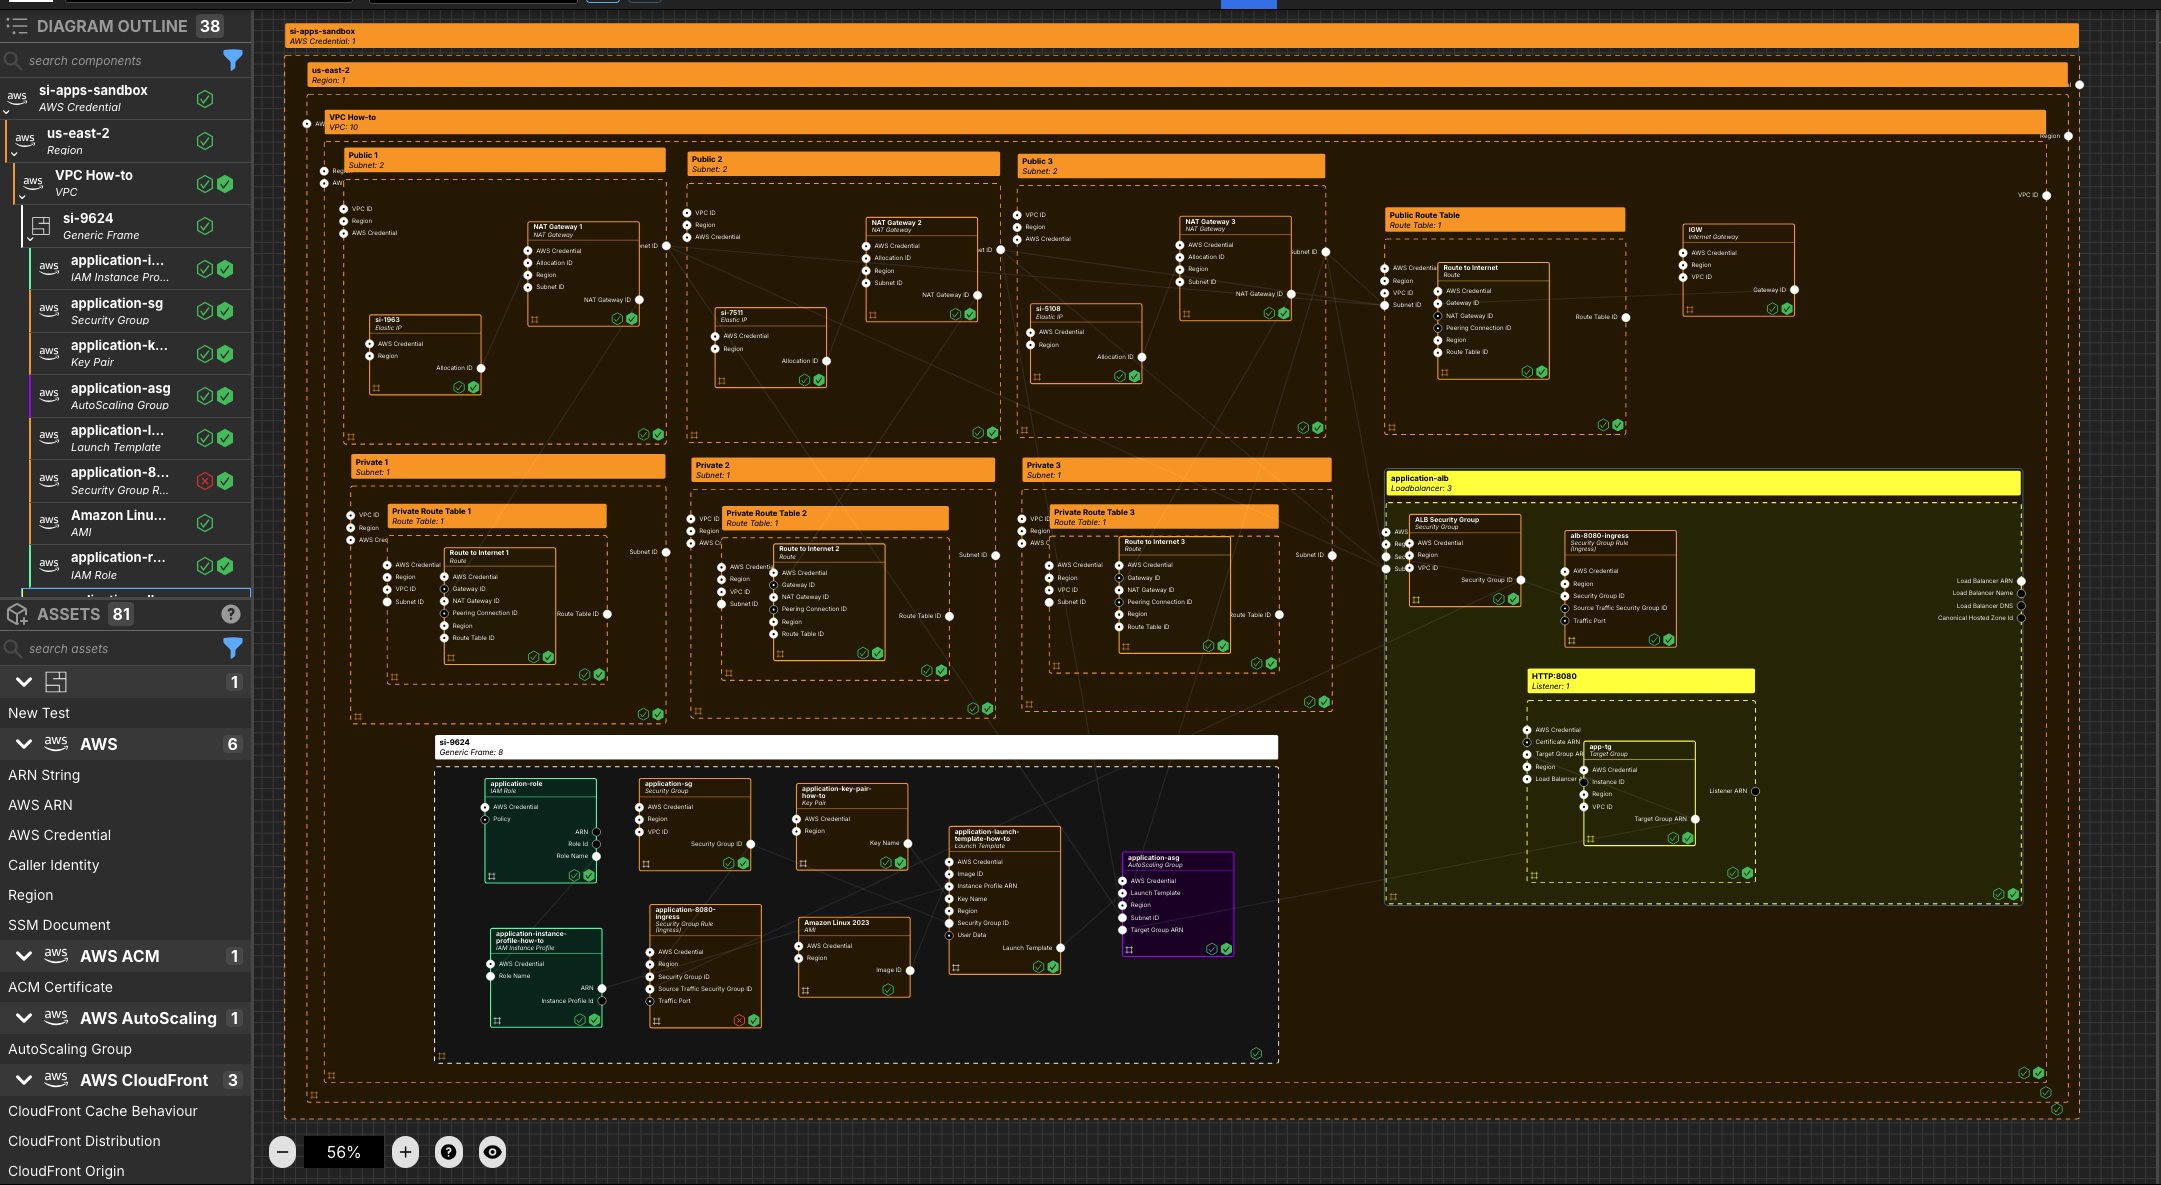
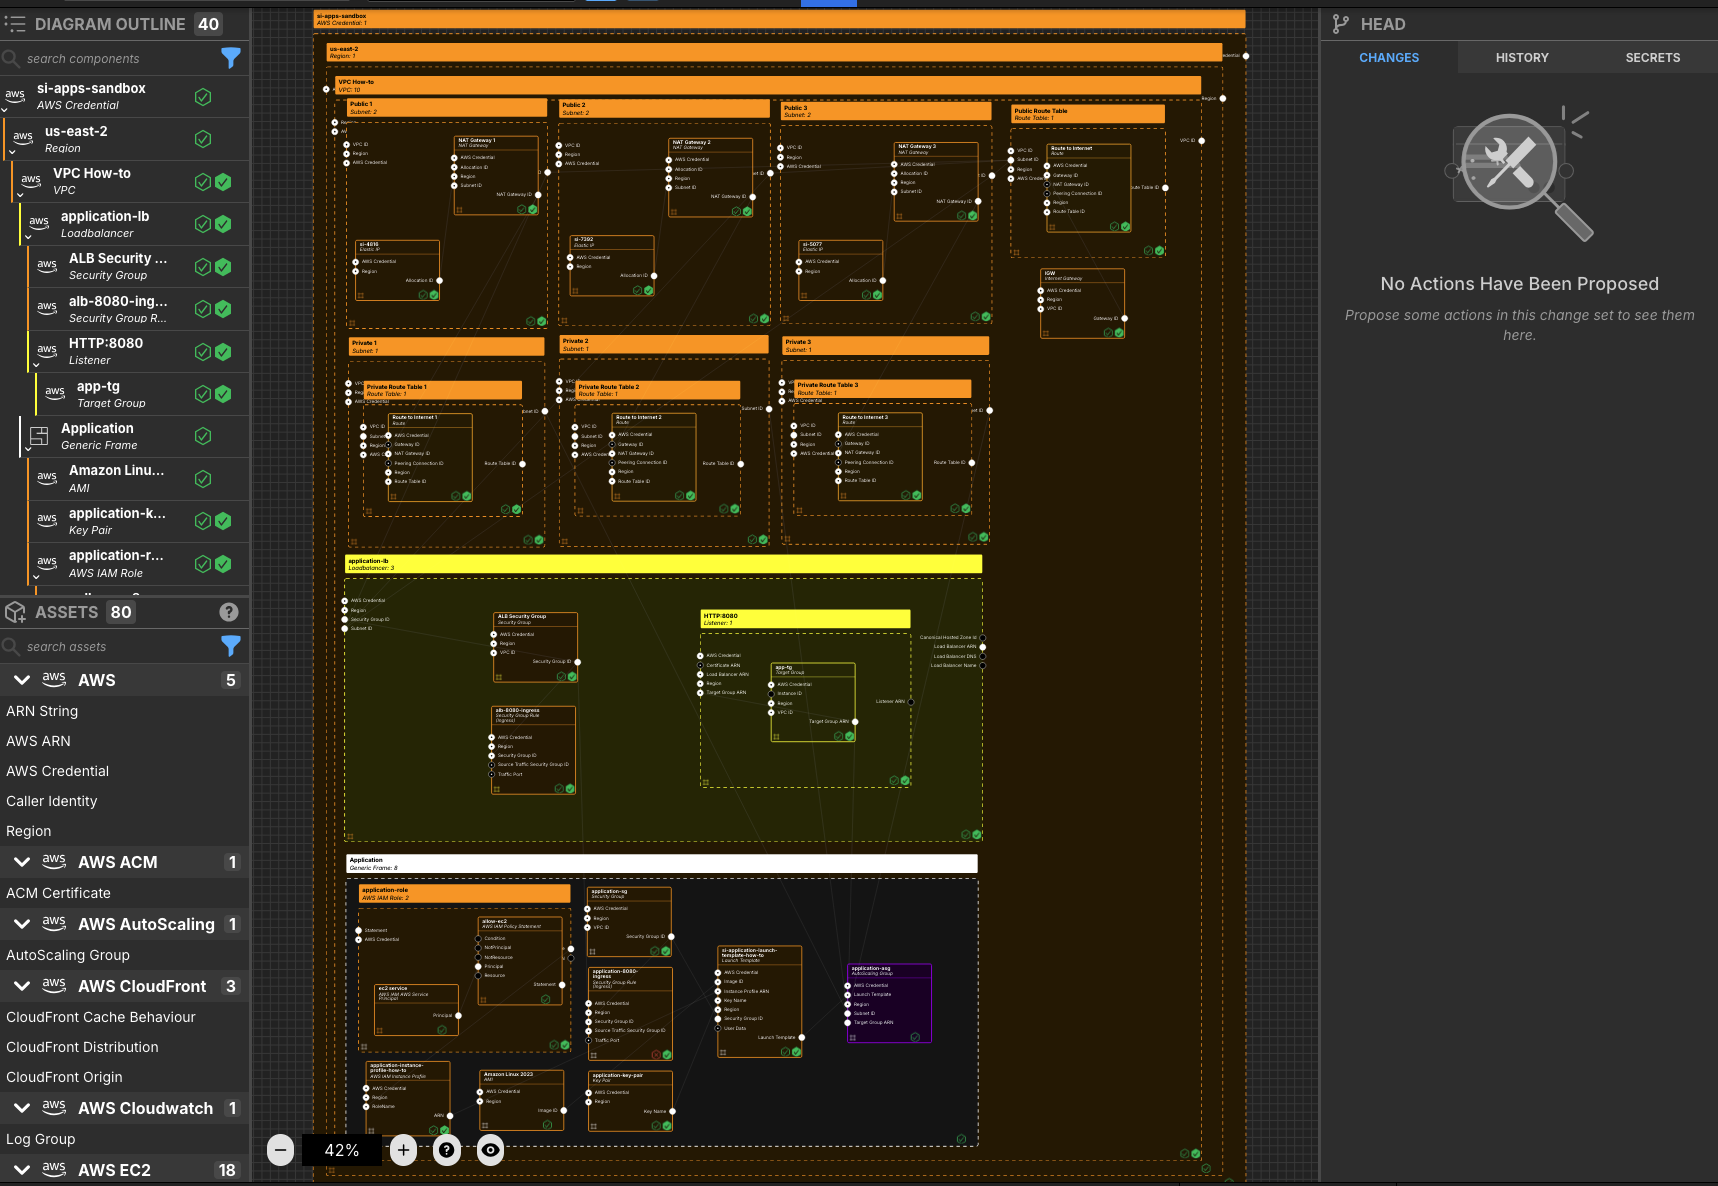
docs: updates to aws-ha-ec2 and aws-vpc
Updates to both documents to reflect Adam's testing. Still some work to
do on the HA How-To, in order to update the IAM section to use the new
assets.

diff --git a/app/docs/src/how-tos/aws-ha-ec2.md b/app/docs/src/how-tos/aws-ha-ec2.md
@@ -8,14 +8,17 @@ outline:
 This how-to assumes:
 
 - Basic [familiarity with System Initiative](../tutorials/getting-started)
-- Have [build an AWS VPC with System Initiative](../aws-vpc)
+- You have completed the
+  [build an AWS VPC with System Initiative tutorial](../aws-vpc) (and not
+  deleted the resulting resources)
 
 It will teach you how to create a highly available application architecture and
 manage it with System Initiative.
 
 We will cover:
 
-- The creation an EC2 Launch Template and AutoScaling group
+- The creation an EC2 Launch Template and AutoScaling group, with a simple
+  Python application
 - An AWS Application Load Balancer
 - The networking required to allow the application instances to serve traffic to
   the application
@@ -38,12 +41,13 @@ this in your diagram:
 
 ### Create a Loadbalancer component
 
-Add a `VPC` to your `VPC How-to` vpc frame.
+Add a `Loadbalancer` to your `VPC How-to` vpc frame.
 
-Set the component type to be `Configuration Frame (down)` and expand it to fill
-the region frame.
+Set the component type to be `Configuration Frame (down)`.
 
-Set the component name & `LbName` to be `application-alb`.
+Set the component name to `application-lb`.
+
+Set the `LbName` to `application-alb`.
 
 Set the `IpAddressType` to be `ipv4`.
 
@@ -58,7 +62,9 @@ the `Subnet ID` input socket of the `application-alb` component.
 
 Add a `Security Group` to your `application-alb` loadbalancer frame.
 
-Set the component name & `GroupName` to be `ALB Security Group`.
+Set the component name to `ALB Security Group`.
+
+Set the `GroupName` to `ALB Security Group`.
 
 Set the `Description` to be `ALB to the world`
 
@@ -88,17 +94,21 @@ to the `Security Group ID` input socket of this `alb-8080-ingress` component.
 
 Add a `Listener` component to your `application-alb` loadbalancer frame.
 
+Set the component name to `HTTP:8080`.
+
 Set the `Port` to be `8080`.
 
 Set the `Protocol` to be `HTTP`.
 
-The name of the component
+Resize the frame to be large enough to fit another component.
 
 ### Create a Target Group
 
 Add a `Target Group` component to your `Listener` frame.
 
-Set the component name and `TgName` to be `app-tg`.
+Set the component name to `app-tg`.
+
+Set `TgName` to be `app-tg`.
 
 Set `HealthCheckEnabled` to be enabled.
 
@@ -110,7 +120,9 @@ Set `HealthCheckPort` to be `8080`.
 
 Set `HealthCheckProtocol` to be `HTTP`.
 
-Set `HealthCheckTimeoutSeconds` and `HealthyThresholdCount` to be `5`.
+Set `HealthCheckTimeoutSeconds` to be `5`.
+
+Set `HealthyThresholdCount` to be `5`.
 
 Set `HttpCode` to be `200`.
 
@@ -129,29 +141,69 @@ Add a `Generic Frame` component to your `VPC` frame.
 
 Set the component name to be `Application`.
 
+Resize the frame to hold many components.
+
 ### Create an IAM Role
 
-Add an `IAM Role` component to your `Application` frame.
+Add an `AWS IAM Role` component to your `Application` frame.
 
-Set the component name and `RoleName` to be `application-role`.
+Set the component name to `application-role`.
 
-Set `GeneratePolicyForService` to be `ec2.amazonaws.com`.
+Set the `RoleName` to `application-role`.
+
+Set the `Description` to `EC2 Application Role`.
+
+Set the `Path` to `/si-tutorial/`.
+
+### Create an Assume Role Policy
+
+Add an `AWS IAM Policy Statement` within the `application-role` AWS IAM Role
+frame.
+
+Set the component name to `allow-ec2`.
+
+Set the `Sid` to `allow-ec2`.
+
+Set the `Effect` to `Allow`.
+
+Add an array item to the `Action` array.
+
+Set the `[0]` value for the `Action` array to `sts:AssumeRole`.
+
+### Create an AWS IAM AWS Service Principal
+
+Add an `AWS IAM Service Principal` within the `application-role` AWS IAM Role
+frame.
+
+Set the component name to `ec2 service`.
+
+Set the `Service` to `ec2.amazonaws.com`.
+
+Connect the `Principal` output socket of the `ec2-service` AWS IAM AWS Service
+Principal to the `Principal` input socket of your `allow-ec2` AWS IAM Policy
+Statement.
 
 ### Create an IAM Instance Profile
 
 Add an `IAM Instance Profile` to your `Application` frame.
 
-Set the component name and `InstanceProfileName` to be
-`application-instance-profile-how-to`.
+Set the component name to `application-instance-profile-how-to`.
 
-Connect the `Role Name` output socket of `application-role` component to the
-`Role Name` input socket of the `application-instance-profile` component.
+Set the `InstanceProfileName` to `application-instance-profile-how-to`.
 
-### Create an EC2 security group component for the Application
+Set the `Path` to `/si-tutorial/`.
+
+Connect the `Role Name` output socket of `application-role` IAM Role component
+to the `Role Name` input socket of the `application-instance-profile` IAM
+Instance Profile component.
+
+### Create a Security Group component for the Application
 
 Add a `Security Group` to your `Application` frame.
 
-Set the component name & `GroupName` to be `application-sg`.
+Set the component name to `application-sg`
+
+Set the `GroupName` to `application-sg`.
 
 Set the `Description` to be `Application Security Group`
 
@@ -177,7 +229,9 @@ to the `Source Traffic Security Group ID` input socket of this
 
 Add a `Key Pair` to your `Application` frame.
 
-Set the component name and `KeyName` to be `application-key-pair`.
+Set the component name to `application-key-pair`.
+
+Set the `KeyName` to `application-key-pair`.
 
 ### Create an AMI component
 
@@ -191,8 +245,9 @@ Set the `ImageId` to be `ami-0c11a84584d4e09dd`.
 
 Add a `Launch Template` component to your `Application` frame.
 
-Set the component name and `LaunchTemplateName` to be
-`application-launch-template-how-to`
+Set the component name to `application-launch-template-how-to`.
+
+Set the `LaunchTemplateName` to `application-launch-template-how-to`.
 
 Set the `InstanceType` to be `t3.small`
 
@@ -289,9 +344,11 @@ Connect the `Image ID` output socket of `Amazon Linux 2023` component to the
 
 Add an `AutoScaling Group` component to the `Application` frame.
 
-Set the component name and `AutoScalingGroupName` to be `application-asg`.
+Set the component name to `application-asg`.
 
-Set `DesiredSize` to be 1.
+Set `AutoScalingGroupName` to be `application-asg`.
+
+Set `DesiredCapacity` to be 1.
 
 Set `MaxSize` to be 1.
 
@@ -304,8 +361,8 @@ component.
 Connect the `Subnet ID` output socket of each of the `Public` subnet components
 to the `Subnet ID` input socket of this `application-asg` component.
 
-Connect the `Target Group ARN` output socket of each of the `app-tg` subnet
-components to the `Target Group ARN` input socket of this `application-asg`
+Connect the `Target Group ARN` output socket of each of the `app-tg` Target
+Group to the `Target Group ARN` input socket of this `application-asg`
 component.
 
 ### Apply your Change Set

diff --git a/app/docs/src/how-tos/aws-vpc.md b/app/docs/src/how-tos/aws-vpc.md
@@ -48,32 +48,37 @@ Set the component name to be `How to VPC`.
 
 Set the `CidrBlock` to be  `10.0.0.0/16`
 
-Enable `EnableDnsHostnames` and `EnableDnsResolution`.
+Enable `EnableDnsHostnames`.
+
+Enable `EnableDnsResolution`.
 
 ### Create the Public Subnet Components
 
 This VPC will span multiple availability zones in our AWS Region. Add 3 `Subnet`
 components to your VPC frame and configure them as follows:
 
-| component name | `CidrBlock`   | `AvailabilityZone` |
-| -------------- | ------------- | ------------------ |
-| Public 1       | 10.0.128.0/20 | us-east-2a         |
-| Public 2       | 10.0.144.0/20 | us-east-2b         |
-| Public 3       | 10.0.160.0/20 | us-east-2c         |
-
-Enable `IsPublic` for each of the public subnet components.
+| Component Name | `CidrBlock`   | `AvailabilityZone` | `IsPublic`  |
+| -------------- | ------------- | ------------------ | ----------- |
+| Public 1       | 10.0.128.0/20 | us-east-2a         | true        |
+| Public 2       | 10.0.144.0/20 | us-east-2b         | true        |
+| Public 3       | 10.0.160.0/20 | us-east-2c         | true        |
 
 Set the component type for each of the public subnet components to be
 `Configuration Frame (down)`.
 
-### Create the Elastic IP and NAT Gateway Components
+### Create the NAT Gateway Components
 
-To each of the `Public` subnet frames, add an `Elastic IP` component.
-
-Also add a `NAT Gateway` component to each of the `Public` subnet frames.
+Add a `NAT Gateway` component to each of the `Public` subnet frames.
 
 Set name names of the component to be `NAT Gateway (1|2|3)` - the index should
 align with the subnet it is inside.
+
+### Create the Elastic IPs for each NAT Gateway
+
+To each of the `Public` subnet frames, add an `Elastic IP` component.
+
+Set the names of the components to be `NAT Gateway IP (1|2|3)` - the index
+should align with the subnet it is inside, and match the `NAT Gateway` component.
 
 Connect the `Allocation ID` output socket of the `Elastic IP` component to the
 `Allocation ID` input socket of the `NAT Gateway` component. The connections
@@ -87,7 +92,7 @@ Set the component type to be `Configuration Frame (down)`.
 
 Set the component name to be `Public Route Table`.
 
-Connect the `Subnet ID` output socket of the public subnet components to the
+Connect the `Subnet ID` output socket of the Public `Subnet` components to the
 `Subnet ID` input socket of the `Public Route Table` component.
 
 ### Create a Route Component
@@ -131,7 +136,7 @@ the subnet frame it is inside.
 Set the component type for each of the `Private Route Table` components to be
 `Configuration Frame (down)`.
 
-### Create theRoute Components
+### Create the Private Route Components
 
 Add a `Route` component to each of the `Private Route Table` frames.
 
